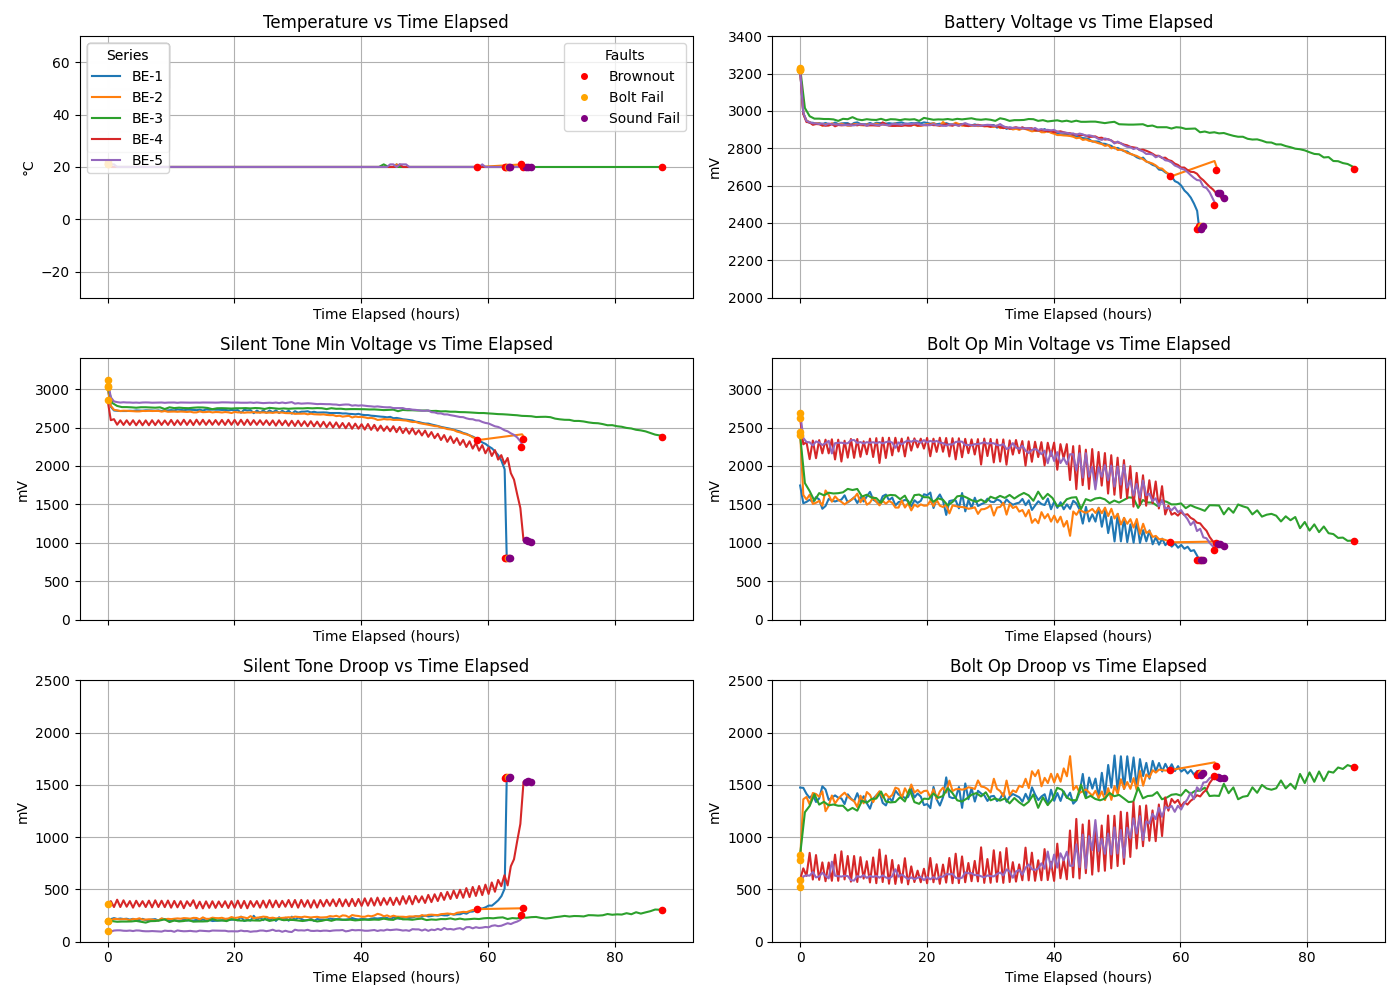
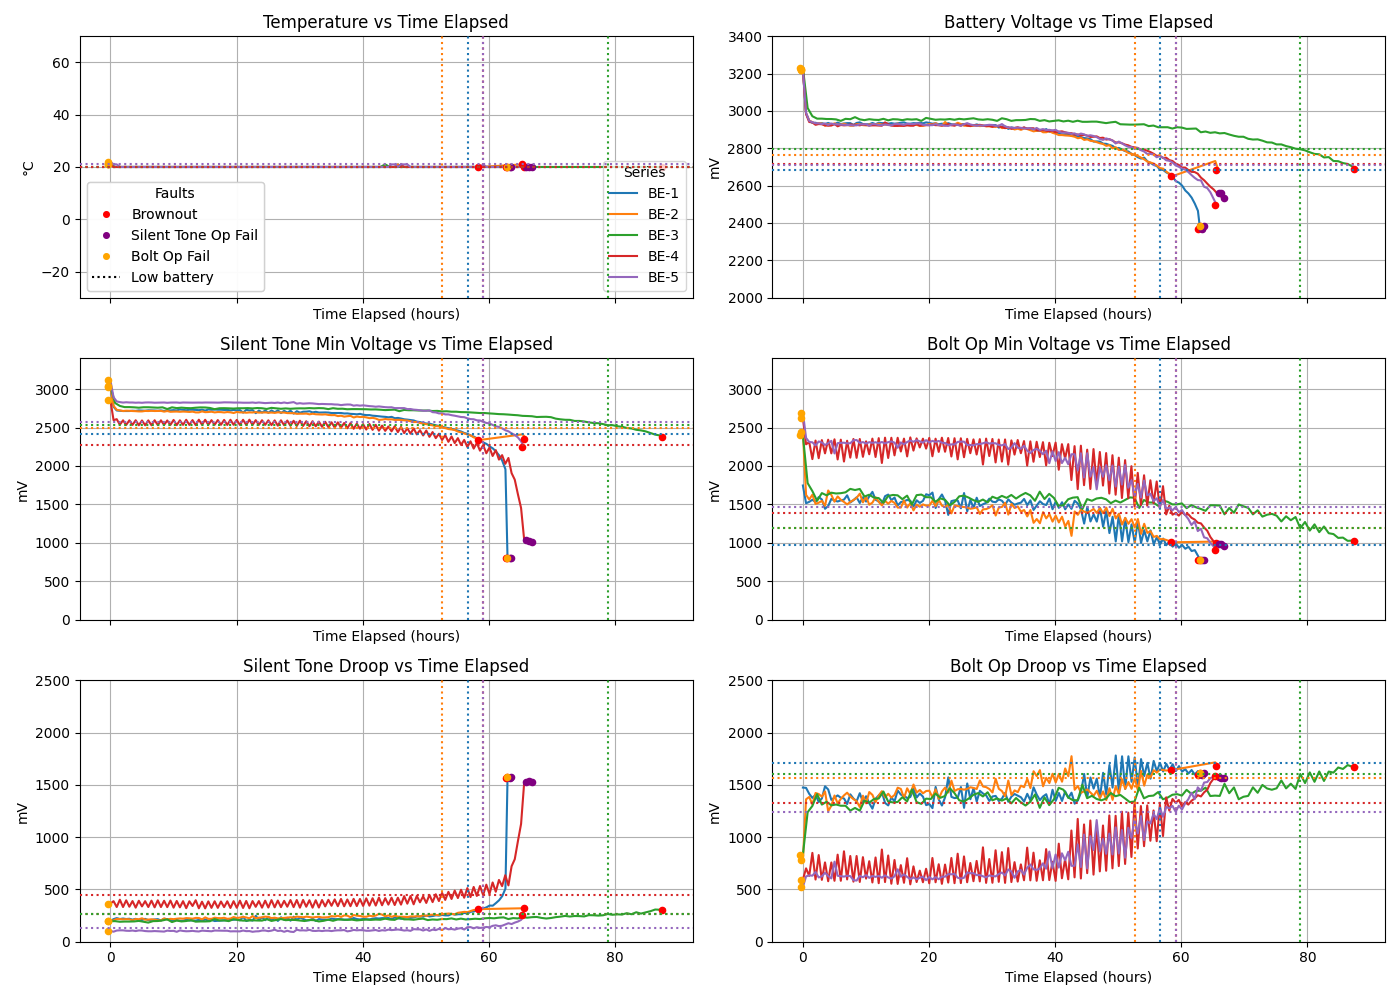
updated plot_all.py

diff --git a/plot_all.py b/plot_all.py
@@ -3,9 +3,10 @@ import matplotlib.pyplot as plt
 import os
 import glob
 import numpy as np  # NEW
+from matplotlib.lines import Line2D
 
 # CONFIGURATION
-CSV_DIR = "csvs/temp-60"
+CSV_DIR = "csvs/temp-20"
 CSV_TAG = os.path.basename(os.path.normpath(CSV_DIR))
 PLOT_OUTPUT = f"plots/compare_all_{CSV_TAG}.png"
 
@@ -30,8 +31,19 @@ print(f"Found {len(csv_files)} CSVs to compare in {CSV_DIR}")
 fig, axes = plt.subplots(3, 2, figsize=(14, 10), sharex=True)
 axes = axes.flatten()
 
-# Offset and dot styling
 dot_size = 20
+
+# Collect series line handles (for the legend) only from subplot[0]
+series_handles_axis0 = []
+
+# Track which fault columns exist across all CSVs (for proxy legend)
+fault_present = {
+    "fault_brownout": False,
+    "fault_sound": False,
+    "fault_sound_brownout": False,
+    "fault_bolt": False,
+    "fault_bolt_brownout": False,
+}
 
 for csv_path in csv_files:
     df = pd.read_csv(csv_path)
@@ -45,98 +57,108 @@ for csv_path in csv_files:
     total_time = t_series.iloc[-1] - t_series.iloc[0]
     offset = total_time * 0.005
 
-    # --- NEW: compute index for "Low battery" (10% before first fault) ---
-    fault_cols = [c for c in ["fault_brownout", "fault_bolt", "fault_sound"] if c in df.columns]
+    # Update which fault types appear in any file
+    for k in fault_present.keys():
+        if k in df.columns and df[k].any():
+            fault_present[k] = True
+
+    # Compute 10% pre-first-fault "low battery" index (per-file)
+    fault_cols = [c for c in fault_present.keys() if c in df.columns]
     idx_low_batt = None
     if fault_cols:
         any_fault = df[fault_cols].any(axis=1)
         if any_fault.any():
-            idx_first_fault = any_fault.idxmax()  # first True
-            t0 = t_series.iloc[0]
-            t_fault = t_series.loc[idx_first_fault]
-            hours_to_fault = t_fault - t0
-            t_target = t_fault - 0.10 * hours_to_fault
-            idx_low_batt = (t_series - t_target).abs().idxmin()
-    # ---------------------------------------------------------------------
+            # Ignore faults in the first 10% of the data
+            n_rows = len(df)
+            min_idx = int(np.ceil(0.10 * n_rows))
+            any_fault.iloc[:min_idx] = False
+            if any_fault.any():
+                idx_first_fault = any_fault.idxmax()
+                t0 = t_series.iloc[0]
+                t_fault = t_series.loc[idx_first_fault]
+                hours_to_fault = t_fault - t0
+                t_target = t_fault - 0.10 * hours_to_fault
+                idx_low_batt = (t_series - t_target).abs().idxmin()
 
     for i, (col, title, unit) in enumerate(COLUMNS_TO_PLOT):
         ax = axes[i]
         if col not in df.columns:
             continue
 
-        # Main line plot (with label for the series legend)
-        ax.plot(t_series, df[col], label=label)
+        # Plot series; capture handle on the first subplot only
+        line, = ax.plot(t_series, df[col], label=label)
+        if i == 0:
+            series_handles_axis0.append(line)
 
-        # Only create dummy handles for fault legend once (first CSV only)
-        if csv_path == csv_files[0]:
-            fault_handles = []
-            if "fault_brownout" in df.columns:
-                fault_handles.append(plt.Line2D([], [], color="red", marker='o', linestyle='None', markersize=dot_size/5, label="Brownout"))
-            if "fault_bolt" in df.columns:
-                fault_handles.append(plt.Line2D([], [], color="orange", marker='o', linestyle='None', markersize=dot_size/5, label="Bolt Fail"))
-            if "fault_sound" in df.columns:
-                fault_handles.append(plt.Line2D([], [], color="purple", marker='o', linestyle='None', markersize=dot_size/5, label="Sound Fail"))
-            # NEW: Low battery (10% pre-fault X)
-            fault_handles.append(plt.Line2D([], [], color="black", linestyle="dotted", linewidth=1.5, label="Low battery"))
-
-        # Plot actual fault markers (no label so they don't go in the series legend)
+        # Fault markers — same offsets/order as your single-file script
         if "fault_brownout" in df.columns:
             ax.scatter(t_series[df["fault_brownout"]] - offset,
                        df[col][df["fault_brownout"]],
                        color="red", s=dot_size, zorder=5, label=None)
 
-        if "fault_bolt" in df.columns:
-            ax.scatter(t_series[df["fault_bolt"]],
-                       df[col][df["fault_bolt"]],
-                       color="orange", s=dot_size, zorder=5, label=None)
-
+        # Sound first (+offsets)
         if "fault_sound" in df.columns:
             ax.scatter(t_series[df["fault_sound"]] + offset,
                        df[col][df["fault_sound"]],
                        color="purple", s=dot_size, zorder=5, label=None)
+        if "fault_sound_brownout" in df.columns:
+            ax.scatter(t_series[df["fault_sound_brownout"]] + 2*offset,
+                       df[col][df["fault_sound_brownout"]],
+                       color="blue", s=dot_size, zorder=5, label=None)
 
-        # NEW: plot "Low battery" X marker for this dataset/column if computed
+        # Then bolt (-offsets)
+        if "fault_bolt" in df.columns:
+            ax.scatter(t_series[df["fault_bolt"]] - offset,
+                       df[col][df["fault_bolt"]],
+                       color="orange", s=dot_size, zorder=5, label=None)
+        if "fault_bolt_brownout" in df.columns:
+            ax.scatter(t_series[df["fault_bolt_brownout"]] - 2*offset,
+                       df[col][df["fault_bolt_brownout"]],
+                       color="green", s=dot_size, zorder=5, label=None)
+
+        # Low-battery crosshairs (not part of series legend)
         if idx_low_batt is not None and 0 <= idx_low_batt < len(df):
-            # Get the color of the current series line
-            line_color = ax.get_lines()[-1].get_color() if ax.get_lines() else "black"
-            # Draw dotted vertical and horizontal lines at the low battery point, matching series color
-            ax.axvline(
-            x=t_series.loc[idx_low_batt],
-            linestyle="dotted",
-            linewidth=1.5,
-            color=line_color,
-            zorder=6
-            )
-            ax.axhline(
-            y=df[col].loc[idx_low_batt],
-            linestyle="dotted",
-            linewidth=1.5,
-            color=line_color,
-            zorder=6
-            )
+            lc = line.get_color()
+            ax.axvline(t_series.loc[idx_low_batt], linestyle="dotted", linewidth=1.5, color=lc, zorder=6)
+            ax.axhline(df[col].loc[idx_low_batt], linestyle="dotted", linewidth=1.5, color=lc, zorder=6)
 
         ax.set_title(f"{title} vs Time Elapsed")
         ax.set_ylabel(unit)
         ax.grid(True)
 
-        if i == 0:
-            # First legend: series lines only
-            # Place series legend in the best location automatically
-            series_legend = ax.legend(title="Series", loc="lower right")
-            ax.add_artist(series_legend)
-
-            # Place fault legend in another best location, avoiding overlap
-            fault_legend = ax.legend(handles=fault_handles, title="Faults", loc="lower left")
-            ax.add_artist(fault_legend)
-
+        # y-lims
         if col == "temp":
             ax.set_ylim(-30, 70)
         elif col == "batt_mV":
             ax.set_ylim(2000, 3400)
-        elif col == "soundDroopMag_mV" or col == "boltDroopMag_mV":
+        elif col in ("soundDroopMag_mV", "boltDroopMag_mV"):
             ax.set_ylim(0, 2500)
         else:
             ax.set_ylim(0, 3400)
+
+# ---- Legends: only on the first subplot, after all data is plotted ----
+ax0 = axes[0]
+
+# Series legend (lines only; excludes low-battery crosshairs)
+series_legend = ax0.legend(handles=series_handles_axis0, title="Series", loc="lower right")
+ax0.add_artist(series_legend)
+
+# Faults legend (proxy handles + Low battery)
+fault_handles = []
+if fault_present["fault_brownout"]:
+    fault_handles.append(Line2D([], [], color="red", marker='o', linestyle='None', markersize=dot_size/5, label="Brownout"))
+if fault_present["fault_sound"]:
+    fault_handles.append(Line2D([], [], color="purple", marker='o', linestyle='None', markersize=dot_size/5, label="Silent Tone Op Fail"))
+if fault_present["fault_sound_brownout"]:
+    fault_handles.append(Line2D([], [], color="blue", marker='o', linestyle='None', markersize=dot_size/5, label="Silent Tone Brownout"))
+if fault_present["fault_bolt"]:
+    fault_handles.append(Line2D([], [], color="orange", marker='o', linestyle='None', markersize=dot_size/5, label="Bolt Op Fail"))
+if fault_present["fault_bolt_brownout"]:
+    fault_handles.append(Line2D([], [], color="green", marker='o', linestyle='None', markersize=dot_size/5, label="Bolt Brownout"))
+fault_handles.append(Line2D([], [], color="black", linestyle="dotted", linewidth=1.5, label="Low battery"))
+
+fault_legend = ax0.legend(handles=fault_handles, title="Faults", loc="lower left")
+ax0.add_artist(fault_legend)
 
 # X-axis label
 for ax in axes:
